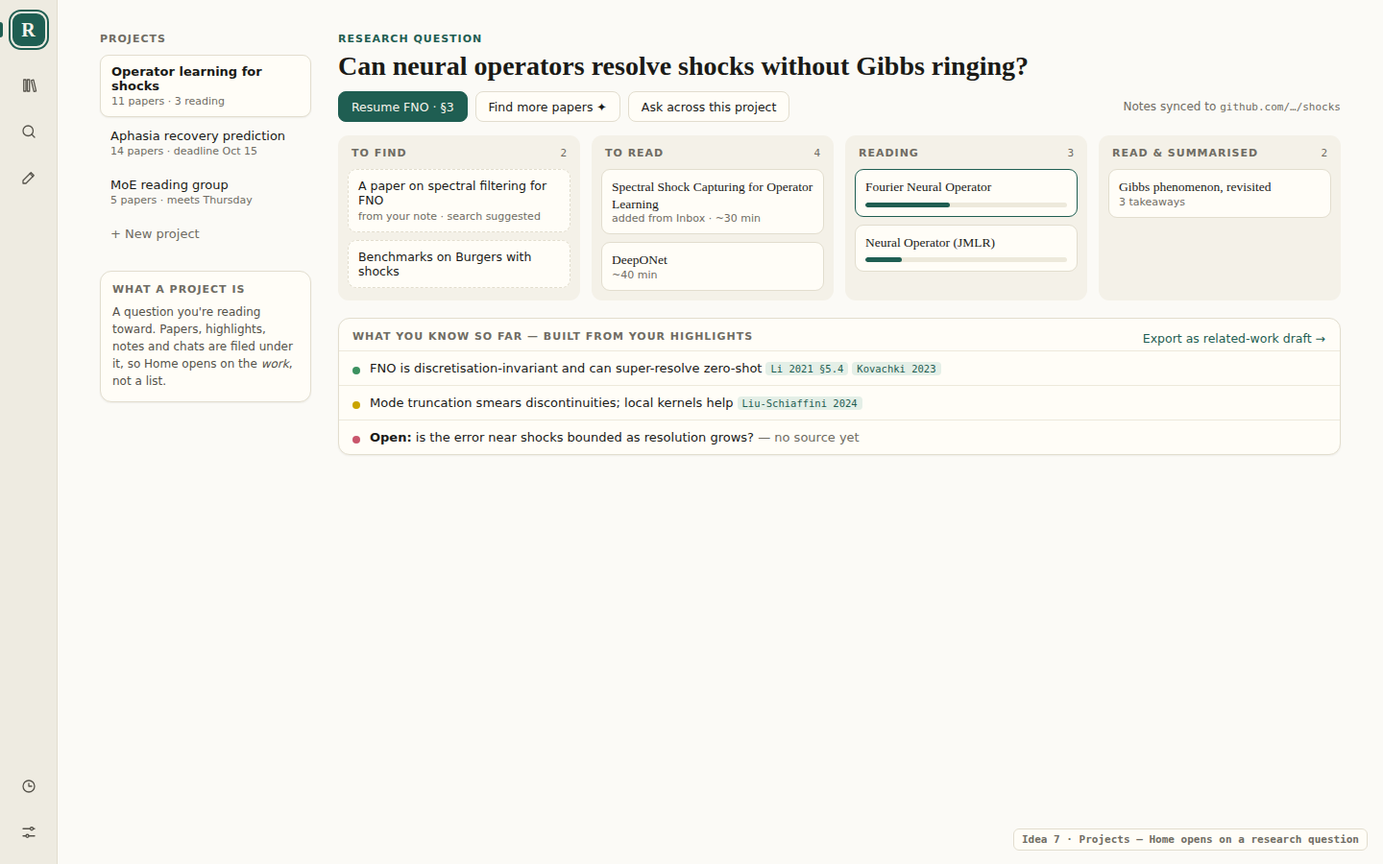
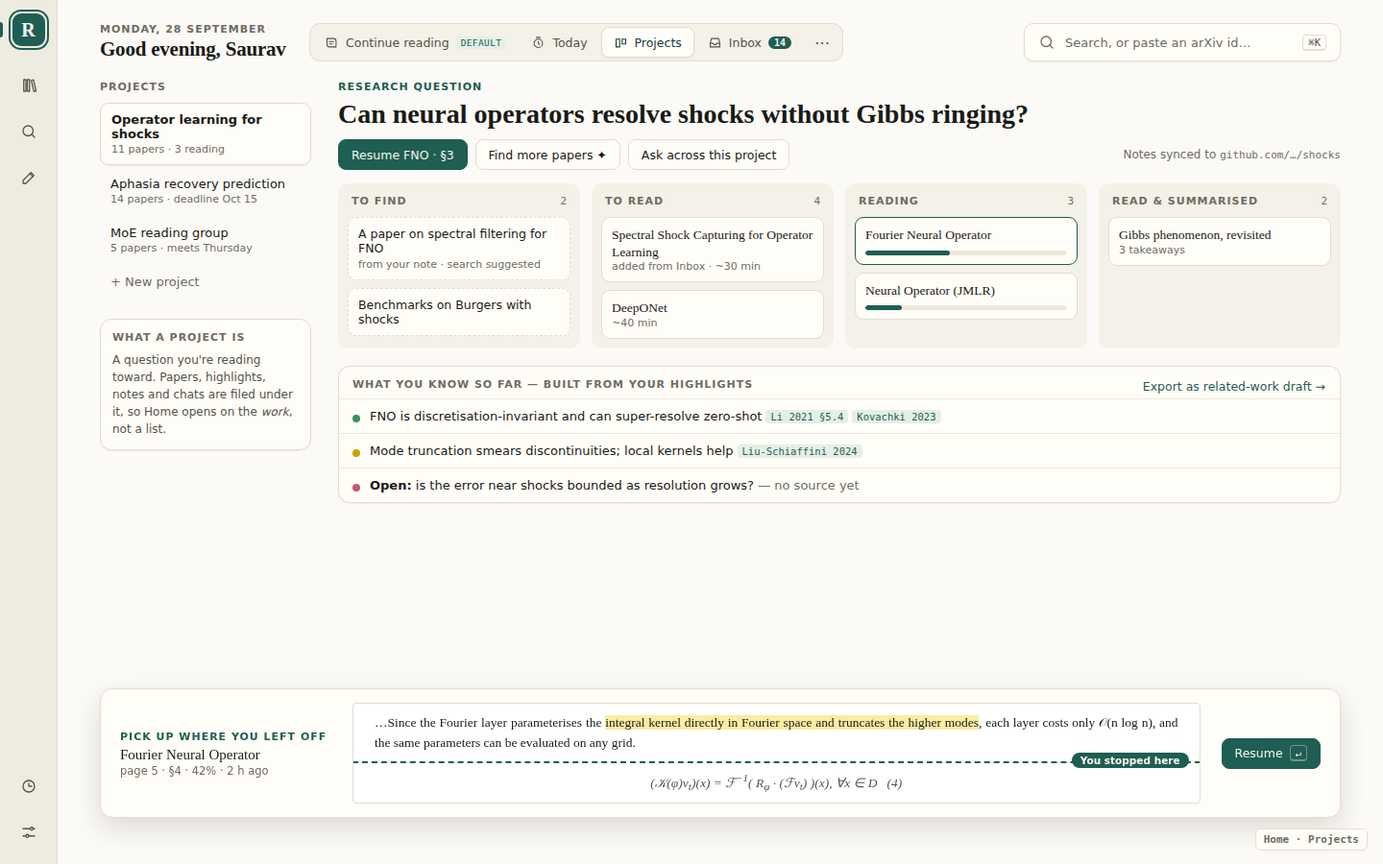
Landing ideas: Continue reading is Home's default, with Today, Projects and Inbox as tabs
Home gets a view switcher and a menu to choose the default and the tabs.
The continue-reading page preview now shows most of the page, and the
other views carry a resume strip with the lines where reading stopped.

Claude-Session: https://claude.ai/code/session_01GpdQYx1fE5DJU2tELgjumX

diff --git a/docs/mockups/landing-src/1-continue.html b/docs/mockups/landing-src/1-continue.html
@@ -1,95 +1,98 @@
 <!doctype html><html><head><meta charset="utf-8"><link rel="stylesheet" href="shared.css">
 <style>
-.grid{display:grid;grid-template-columns:1.4fr 1fr 1fr;gap:20px;margin-top:22px}
-.hero{padding:0;display:grid;grid-template-columns:380px 1fr;overflow:hidden;grid-column:1/-1}
-.meta{padding:22px 24px;display:flex;flex-direction:column}
-.peek{position:relative;background:var(--panel);border-left:1px solid var(--border);padding:16px 18px 0;height:392px;overflow:hidden}
-.peek .bar-top{display:flex;align-items:center;gap:8px;margin-bottom:10px}
-.page{background:#fff;color:#1a1a17;border:1px solid var(--border);border-radius:3px 3px 0 0;box-shadow:0 2px 10px rgba(26,26,23,.10);padding:22px 60px;font-family:'Times New Roman',Times,var(--serif);font-size:15px;line-height:1.55;height:100%;position:relative;max-width:760px;margin:0 auto}
-.page h4{font:700 16px 'Times New Roman',Times,serif;margin:0 0 6px}
-.page p{margin:0 0 8px;text-align:justify;hyphens:auto}
-.page .eq{text-align:center;font-style:italic;margin:6px 0 8px}
-.page .fig{height:54px;border:1px solid #ddd;border-radius:2px;display:flex;gap:6px;padding:6px;margin:4px 0 8px}
-.page .fig i{flex:1;border-radius:2px;background:linear-gradient(135deg,#dbe8f3,#f3dfe4 45%,#e9f1dc)}
-.page .past{opacity:.55}
+.grid{display:grid;grid-template-columns:1fr 340px;gap:20px;height:calc(100% - 64px)}
+.hero{display:flex;flex-direction:column;overflow:hidden;padding:0}
+.meta{display:flex;align-items:center;gap:22px;padding:16px 22px;border-bottom:1px solid var(--border-soft)}
+.meta .t{flex:1;min-width:0}
+.meta .ptitle{font-size:20px;white-space:nowrap;overflow:hidden;text-overflow:ellipsis}
+.facts{display:flex;gap:14px;white-space:nowrap;margin-top:6px;font-size:12px;color:var(--ink-2);align-items:center}
+.facts .bar{width:150px}
+.peek{position:relative;flex:1;background:var(--panel);overflow:hidden;padding:0 22px}
+.peekbar{position:absolute;top:0;left:0;right:0;z-index:3;display:flex;align-items:center;gap:8px;padding:10px 22px;background:linear-gradient(var(--panel) 60%,transparent)}
+.page{background:#fff;color:#1a1a17;box-shadow:0 2px 14px rgba(26,26,23,.12);max-width:660px;margin:0 auto 0 12px;padding:30px 56px 40px;font-family:'Times New Roman',Times,var(--serif);font-size:14.5px;line-height:1.5;position:relative}
+.page.prev{margin-top:-120px;padding-bottom:20px}
+.pghead{font-size:11px;color:#666;text-align:center;margin-bottom:18px;font-style:italic}
+.pgnum{text-align:center;font-size:12px;color:#444;margin-top:14px}
+.gap{height:14px}
+.page h4{font:700 15.5px 'Times New Roman',Times,serif;margin:14px 0 6px}
+.page p{margin:0 0 9px;text-align:justify;hyphens:auto}
+.page .eq{text-align:center;font-style:italic;margin:10px 0}
+.page .read{color:#8a877e}
+.fig{display:grid;grid-template-columns:repeat(3,1fr);gap:8px;margin:12px 0 6px}
+.fig div{height:92px;border:1px solid #ddd;border-radius:2px;background:radial-gradient(circle at 30% 40%,#f3c9c2,transparent 45%),radial-gradient(circle at 70% 65%,#bcd3ea,transparent 50%),linear-gradient(135deg,#eef3f8,#f8efe9)}
+.fig div:nth-child(2){filter:hue-rotate(40deg)}.fig div:nth-child(3){filter:hue-rotate(-60deg) saturate(.8)}
+.cap{font-size:12.5px;text-align:center;margin-bottom:10px}
 .hlp{background:#faeda2}
-.stop{position:relative;margin:10px -61px 12px;height:0;border-top:2px dashed var(--accent)}
-.stop span{position:absolute;right:10px;top:-11px;background:var(--accent);color:var(--accent-on);font:600 10.5px var(--sans);padding:2px 8px;border-radius:999px;letter-spacing:.02em}
-.stop::before{content:'';position:absolute;left:-1px;top:-6px;width:10px;height:10px;border-radius:50%;background:var(--accent)}
-.pin{position:absolute;right:-30px;width:18px;height:18px;border-radius:5px;background:#f6d8dc;border:1px solid #c9566c;display:grid;place-items:center;font:600 10px var(--sans);color:#8f2f2f}
-.fade{position:absolute;left:0;right:0;bottom:0;height:80px;background:linear-gradient(transparent,var(--panel))}
-.fadetop{position:absolute;left:0;right:0;top:44px;height:30px;background:linear-gradient(var(--panel),transparent);z-index:1}
-.peek .open{position:absolute;right:18px;bottom:14px;z-index:2}
-:root[data-theme=dark] .page{background:#23252b;color:#dcd8ce;border-color:var(--border)}
+.stop{position:relative;margin:12px -57px 14px;height:0;border-top:2px dashed var(--accent);z-index:2}
+.stop span{position:absolute;right:14px;top:-12px;background:var(--accent);color:var(--accent-on);font:600 11px var(--sans);padding:3px 10px;border-radius:999px}
+.stop::before{content:'';position:absolute;left:-2px;top:-7px;width:12px;height:12px;border-radius:50%;background:var(--accent)}
+.margin-note{text-align:left;position:absolute;right:-232px;width:205px;background:var(--surface);border:1px solid var(--border);border-left:3px solid var(--ul-pink);border-radius:8px;padding:9px 11px;font:12px/1.45 var(--sans);color:var(--ink);box-shadow:var(--shadow-sm)}
+.margin-note small{display:block;color:var(--muted);font-size:10.5px;margin-bottom:3px}
+.fade{position:absolute;left:0;right:0;bottom:0;height:110px;background:linear-gradient(transparent,var(--panel) 85%);z-index:2}
+.peek .open{position:absolute;right:22px;bottom:16px;z-index:3;display:flex;gap:8px}
+.side{display:flex;flex-direction:column;gap:16px;min-height:0}
+.row{display:flex;align-items:center;gap:11px;padding:9px 14px;border-top:1px solid var(--border-soft)}
+.row .ptitle{font-size:13.5px}
+.sh{display:flex;justify-content:space-between;padding:12px 14px 6px}
+.hlitem{padding:9px 14px;border-top:1px solid var(--border-soft);font-family:var(--serif);font-size:13.5px;line-height:1.4}
+.hlitem small{display:block;font-family:var(--sans);font-size:11px;color:var(--muted);margin-top:3px}
+:root[data-theme=dark] .page{background:#23252b;color:#dcd8ce}
+:root[data-theme=dark] .page .read,:root[data-theme=dark] .pghead,:root[data-theme=dark] .pgnum{color:#8d897f}
 :root[data-theme=dark] .hlp{background:rgba(246,226,122,.3)}
-:root[data-theme=dark] .page .fig{border-color:#3a3d45}
-:root[data-theme=dark] .page .fig i{opacity:.35}
-.note{margin:14px 0 16px;padding:9px 12px;border-radius:8px;background:var(--hl-pink);font-size:12px;line-height:1.45}
-.snip{border-left:3px solid var(--ul-yellow);padding:8px 12px;margin:14px 0 16px;font-family:var(--serif);font-size:15px;line-height:1.5;background:var(--panel);border-radius:0 8px 8px 0}
-.row{display:flex;align-items:center;gap:12px;padding:11px 14px;border-top:1px solid var(--border-soft)}
-.row:first-child{border-top:0}
-.qbox{display:flex;align-items:center;gap:10px;height:44px;padding:0 14px;border:1px solid var(--border);border-radius:11px;background:var(--surface);box-shadow:var(--shadow-sm);color:var(--muted);font-size:14px;width:520px}
-.stat b{font-family:var(--serif);font-size:26px;font-weight:600;display:block;color:var(--ink)}
-.hlitem{padding:11px 14px;border-top:1px solid var(--border-soft);font-family:var(--serif);font-size:14px;line-height:1.45}
-.hlitem:first-of-type{border-top:0}
-.hlitem small{display:block;font-family:var(--sans);font-size:11px;color:var(--muted);margin-top:4px}
+:root[data-theme=dark] .fig div{border-color:#3a3d45;opacity:.45}
 </style></head><body><div class="app"><!--RAIL-->
 <main class="main"><div class="scroll">
-<div style="display:flex;align-items:flex-end;justify-content:space-between">
-  <div><div class="eyebrow">Sunday, 27 September</div>
-  <h1 class="serif" style="font-size:34px;font-weight:600;letter-spacing:-.014em;margin-top:6px">Good evening, Saurav</h1></div>
-  <div class="qbox"><svg class="i" viewBox="0 0 24 24"><circle cx="11" cy="11" r="7"/><path d="M20 20l-4-4"/></svg>Search papers, people, or paste an arXiv id…<span style="flex:1"></span><kbd>⌘K</kbd></div>
-</div>
-
+<!--HOMEBAR:continue-->
 <div class="grid">
-  <section class="card hero">
-   <div class="meta">
-    <div class="eyebrow" style="color:var(--accent)">Continue reading · 2 hours ago</div>
-    <div class="ptitle" style="font-size:22px;margin-top:6px">Fourier Neural Operator for Parametric Partial Differential Equations</div>
-    <div class="ink2" style="margin-top:4px">Zongyi Li, Nikola Kovachki et al. · ICLR 2021</div>
-    <div style="display:flex;align-items:center;gap:10px;margin-top:14px"><div class="bar" style="flex:1"><i style="width:42%"></i></div><span class="mono muted">42% · ~14 min left</span></div>
-    <div class="note"><b>Your note</b> on the last highlight: “Where does this kernel parameterisation come from?”</div>
-    <div style="display:grid;grid-template-columns:auto 1fr;gap:6px 12px;font-size:12px;margin-bottom:16px">
-     <span class="muted">Last session</span><span>18 min · 3 highlights · 1 note</span>
-     <span class="muted">Coming up</span><span>§4.1 Discretisation invariance · Fig. 2</span>
-    </div>
-    <div style="flex:1"></div>
-    <div style="display:flex;gap:8px;flex-wrap:wrap"><span class="btn primary">Resume here <kbd style="background:transparent;color:var(--accent-on);border-color:rgba(255,255,255,.35)">↵</kbd></span><span class="btn">Explain the paper</span></div>
+ <section class="card hero">
+  <div class="meta">
+   <div class="t">
+    <div class="eyebrow" style="color:var(--accent)">Continue reading · left 2 hours ago</div>
+    <div class="ptitle" style="margin-top:4px">Fourier Neural Operator for Parametric Partial Differential Equations</div>
+    <div class="facts"><span>Li, Kovachki et al. · ICLR 2021</span><div class="bar" style="width:110px"><i style="width:42%"></i></div><span class="mono">42% · ~14 min left</span><span class="muted">last session 18 min · 3 highlights</span></div>
    </div>
-   <div class="peek">
-    <div class="bar-top"><span class="eyebrow">Where you stopped</span><span class="mono muted">page 5 of 16 · §4</span><span style="flex:1"></span><span class="chip" style="height:22px;background:var(--surface);color:var(--accent-ink);border-color:var(--accent)">PDF</span><span class="chip" style="height:22px">Reflow</span></div>
-    <div class="fadetop"></div>
-    <div class="page">
-     <p class="past">…where each update composes a non-local integral operator with a local, nonlinear activation function. Finally, the output u is the projection of v<sub>T</sub> by Q.</p>
-     <h4>4 &nbsp;Fourier Neural Operator</h4>
-     <p>We propose replacing the kernel integral operator in (3) by a convolution operator defined in Fourier space. Let ℱ denote the Fourier transform of a function f : D → ℝ<sup>d<sub>v</sub></sup>. Since the Fourier layer parameterises the <span class="hlp">integral kernel directly in Fourier space and truncates the higher modes</span>, each layer costs only 𝒪(n log n).<span class="pin" style="top:168px" title="your note">✎</span></p>
-     <div class="stop"><span>You stopped here · 2 h ago</span></div>
-     
-     
-     <div class="eq" style="margin-top:14px">(𝒦(φ)v<sub>t</sub>)(x) = ℱ<sup>−1</sup>( R<sub>φ</sub> · (ℱv<sub>t</sub>) )(x), &nbsp; ∀x ∈ D &nbsp;&nbsp;&nbsp;(4)</div>
-     <p>where R<sub>φ</sub> is the Fourier transform of a periodic function κ : D̄ → ℝ<sup>d<sub>v</sub>×d<sub>v</sub></sup> parameterised by φ ∈ Θ<sub>𝒦</sub>…</p>
-     <div class="fig"><i></i><i></i><i></i></div>
-    </div>
-    <div class="fade"></div>
-    <span class="btn open" style="background:var(--surface)">Open at this line →</span>
+   <span class="btn primary" style="height:38px;padding:0 16px">Resume here <kbd style="background:transparent;color:var(--accent-on);border-color:rgba(255,255,255,.35)">↵</kbd></span>
+  </div>
+  <div class="peek">
+   <div class="peekbar"><span class="eyebrow">Where you stopped</span><span class="mono muted">page 5 of 16 · §4 Fourier Neural Operator</span><span style="flex:1"></span><span class="chip" style="height:22px;background:var(--surface);color:var(--accent-ink);border-color:var(--accent)">PDF</span><span class="chip" style="height:22px">Reflow</span></div>
+   <div class="page prev"><p class="read">…of the solution operator, and we then show that the resulting architecture approximates any continuous operator to arbitrary accuracy.</p><div class="pgnum">4</div></div>
+   <div class="gap"></div>
+   <div class="page">
+    <div class="pghead">Published as a conference paper at ICLR 2021</div>
+    <p class="read">We then apply several iterations of updates v<sub>t</sub> ↦ v<sub>t+1</sub>, where each update composes a non-local integral operator 𝒦 with a local, nonlinear activation function σ. Finally, the output u is the projection of v<sub>T</sub> by the local transformation Q.</p>
+    <h4>4 &nbsp;Fourier Neural Operator</h4>
+    <p class="read">We propose replacing the kernel integral operator in (3) by a convolution operator defined in Fourier space. Let ℱ denote the Fourier transform of a function f : D → ℝ<sup>d<sub>v</sub></sup> and ℱ<sup>−1</sup> its inverse.</p>
+    <p>Since the Fourier layer parameterises the <span class="hlp">integral kernel directly in Fourier space and truncates the higher modes</span>, each layer costs only 𝒪(n log n), and the same parameters can be evaluated on any grid.
+     <span class="margin-note" style="top:238px"><small>Your note · 2 h ago</small>Where does this kernel parameterisation come from?</span></p>
+    <div class="stop"><span>You stopped here</span></div>
+    <div class="eq">(𝒦(φ)v<sub>t</sub>)(x) = ℱ<sup>−1</sup>( R<sub>φ</sub> · (ℱv<sub>t</sub>) )(x), &nbsp;&nbsp; ∀x ∈ D &nbsp;&nbsp;&nbsp;&nbsp;(4)</div>
+    <p>where R<sub>φ</sub> is the Fourier transform of a periodic function κ : D̄ → ℝ<sup>d<sub>v</sub>×d<sub>v</sub></sup> parameterised by φ ∈ Θ<sub>𝒦</sub>. For frequency mode k ∈ D, we have (ℱv<sub>t</sub>)(k) ∈ ℂ<sup>d<sub>v</sub></sup> and R<sub>φ</sub>(k) ∈ ℂ<sup>d<sub>v</sub>×d<sub>v</sub></sup>.</p>
+    <div class="fig"><div></div><div></div><div></div></div>
+    <div class="cap">Figure 2: The full architecture of the neural operator and a Fourier layer.</div>
+    <p>The discretisation D<sub>j</sub> of the domain D gives n points; in the Fourier domain we keep at most k<sub>max</sub> modes…</p>
    </div>
+   <div class="fade"></div>
+   <div class="open"><span class="btn" style="background:var(--surface)">Explain the paper</span><span class="btn" style="background:var(--surface)">Open at this line →</span></div>
+  </div>
+ </section>
+ <aside class="side">
+  <section class="card">
+   <div class="sh"><span class="eyebrow">Also in progress</span><span class="btn ghost" style="height:auto;padding:0;font-size:11.5px">All (4) →</span></div>
+   <div class="row"><div class="ring" style="--p:.63;width:28px;height:28px"></div><div style="flex:1"><div class="ptitle">Survey of mixture-of-experts</div><div class="muted" style="font-size:11px">63% · 2 days ago</div></div></div>
+   <div class="row"><div class="ring" style="--p:.18;width:28px;height:28px"></div><div style="flex:1"><div class="ptitle">Neural Operator: Learning Maps Between Function Spaces</div><div class="muted" style="font-size:11px">18% · 4 days ago</div></div></div>
+   <div class="row"><div class="ring" style="--p:.08;width:28px;height:28px"></div><div style="flex:1"><div class="ptitle">Post-stroke aphasia severity from multimodal neuroimaging</div><div class="muted" style="font-size:11px">8% · <span style="color:var(--ul-pink)">stalled 6 days</span></div></div></div>
   </section>
   <section class="card">
-   <div style="display:flex;justify-content:space-between;padding:14px 14px 6px"><span class="eyebrow">Also in progress</span><span class="btn ghost" style="height:auto;padding:0">Reading now (4) →</span></div>
-   <div class="row"><div class="ring" style="--p:.63"></div><div style="flex:1"><div class="ptitle">A comprehensive survey of mixture-of-experts: Algorithms, theory, and applications</div><div class="muted" style="font-size:11.5px">S Mu, S Lin · 2025 · 63% · opened 2 days ago</div></div><span class="chip">5 highlights</span></div>
-   <div class="row"><div class="ring" style="--p:.18"></div><div style="flex:1"><div class="ptitle">Neural Operator: Learning Maps Between Function Spaces</div><div class="muted" style="font-size:11.5px">Kovachki et al. · JMLR 2023 · 18% · opened 4 days ago</div></div><span class="chip">1 note</span></div>
-   <div class="row"><div class="ring" style="--p:.08"></div><div style="flex:1"><div class="ptitle">Fusion approaches to predict post-stroke aphasia severity from multimodal neuroimaging data</div><div class="muted" style="font-size:11.5px">S Chennuri et al. · ICCV 2023 · 8% · opened last week</div></div><span class="chip">Stalled 6 days</span></div>
-  </section>
-  <section class="card">
-   <div style="padding:14px 14px 6px"><span class="eyebrow">Recent highlights</span></div>
+   <div class="sh"><span class="eyebrow">Recent highlights</span></div>
    <div class="hlitem"><span class="hl-g">spectral convolution is resolution-invariant</span><small><span class="dot dg"></span> Fourier Neural Operator · §4</small></div>
-   <div class="hlitem"><span class="hl-b">sparse gating selects the top-k experts per token</span><small><span class="dot db"></span> Survey of mixture-of-experts · §2.1</small></div>
-   <div class="hlitem"><span class="hl-p">Does truncation lose shock fronts?</span><small><span class="dot dp"></span> Fourier Neural Operator · note · open question</small></div>
+   <div class="hlitem"><span class="hl-b">sparse gating selects the top-k experts per token</span><small><span class="dot db"></span> Mixture-of-experts · §2.1</small></div>
+   <div class="hlitem"><span class="hl-p">Does truncation lose shock fronts?</span><small><span class="dot dp"></span> open question</small></div>
   </section>
   <section class="card">
-   <div style="padding:14px 14px 6px"><span class="eyebrow">Up next in your queue</span></div>
-   <div class="row"><div class="cover" style="width:30px;height:40px"><i></i><i></i><i></i></div><div style="flex:1"><div class="ptitle" style="font-size:14px">Physics-informed neural networks</div><div class="muted" style="font-size:11.5px">Raissi et al. · added yesterday · ~35 min</div></div></div>
-   <div class="row"><div class="cover" style="width:30px;height:40px"><i></i><i></i><i></i></div><div style="flex:1"><div class="ptitle" style="font-size:14px">DeepONet: Learning nonlinear operators</div><div class="muted" style="font-size:11.5px">Lu et al. · added 3 days ago · ~40 min</div></div></div>
+   <div class="sh"><span class="eyebrow">Up next</span></div>
+   <div class="row"><div class="cover" style="width:26px;height:34px;padding:4px"><i></i><i></i></div><div style="flex:1"><div class="ptitle">Physics-informed neural networks</div><div class="muted" style="font-size:11px">~35 min · added yesterday</div></div></div>
+   <div class="row"><div class="cover" style="width:26px;height:34px;padding:4px"><i></i><i></i></div><div style="flex:1"><div class="ptitle">DeepONet</div><div class="muted" style="font-size:11px">~40 min · added 3 days ago</div></div></div>
   </section>
+ </aside>
 </div>
-</div></main></div><div class="label">Idea 1 · Pick up where you left off</div></body></html>
+</div></main></div><div class="label">Home · Continue reading (default)</div></body></html>

diff --git a/docs/mockups/landing-src/1c-choose-views.html b/docs/mockups/landing-src/1c-choose-views.html
@@ -1,4 +1,4 @@
-<!doctype html><html data-theme="dark"><head><meta charset="utf-8"><link rel="stylesheet" href="shared.css">
+<!doctype html><html><head><meta charset="utf-8"><link rel="stylesheet" href="shared.css">
 <style>
 .grid{display:grid;grid-template-columns:1fr 340px;gap:20px;height:calc(100% - 64px)}
 .hero{display:flex;flex-direction:column;overflow:hidden;padding:0}
@@ -40,9 +40,19 @@
 :root[data-theme=dark] .page .read,:root[data-theme=dark] .pghead,:root[data-theme=dark] .pgnum{color:#8d897f}
 :root[data-theme=dark] .hlp{background:rgba(246,226,122,.3)}
 :root[data-theme=dark] .fig div{border-color:#3a3d45;opacity:.45}
+.viewmenu{position:fixed;left:676px;top:66px;width:330px;background:var(--surface);border:1px solid var(--border);border-radius:13px;box-shadow:var(--shadow-md);z-index:10}
+.viewmenu .opt{display:flex;gap:11px;padding:8px 16px;align-items:flex-start}
+.viewmenu .opt.on{background:var(--accent-soft)}
+.viewmenu .opt b{font-weight:500;font-size:13px}
+.viewmenu .opt small{display:block;color:var(--muted);font-size:11.5px;margin-top:1px}
+.radio{width:15px;height:15px;border-radius:50%;border:1.5px solid var(--border);margin-top:2px;flex-shrink:0;display:grid;place-items:center}
+.radio.on{border-color:var(--accent)}.radio.on::after{content:'';width:7px;height:7px;border-radius:50%;background:var(--accent)}
+.tick{display:inline-block;width:13px;height:13px;border:1.5px solid var(--border);border-radius:3px;margin-right:7px;vertical-align:-2px}
+.tick.on{background:var(--accent);border-color:var(--accent)}
+.dim{position:fixed;inset:0;background:rgba(26,26,23,.06);z-index:9}
 </style></head><body><div class="app"><!--RAIL-->
 <main class="main"><div class="scroll">
-<!--HOMEBAR:continue-->
+<!--HOMEBAR:more-->
 <div class="grid">
  <section class="card hero">
   <div class="meta">
@@ -95,4 +105,18 @@
   </section>
  </aside>
 </div>
-</div></main></div><div class="label">Home · Continue reading (default) · dark</div></body></html>
+</div></main></div><div class="dim"></div><div class="viewmenu">
+ <div class="eyebrow" style="padding:14px 16px 6px">Home opens on</div>
+ <label class="opt on"><span class="radio on"></span><div><b>Continue reading</b><small>The page you stopped on, and what's in progress</small></div></label>
+ <label class="opt"><span class="radio"></span><div><b>Today</b><small>A timed plan and a focus session</small></div></label>
+ <label class="opt"><span class="radio"></span><div><b>Projects</b><small>Your active research question</small></div></label>
+ <label class="opt"><span class="radio"></span><div><b>Inbox</b><small>New papers since your last visit</small></div></label>
+ <label class="opt"><span class="radio"></span><div><b>Whichever I used last</b></div></label>
+ <div class="eyebrow" style="padding:12px 16px 6px;border-top:1px solid var(--border-soft);margin-top:6px">Show as tabs</div>
+ <div style="padding:2px 16px 10px;display:grid;grid-template-columns:1fr 1fr;gap:7px 10px;font-size:12.5px">
+  <span><span class="tick on"></span>Continue reading</span><span><span class="tick on"></span>Today</span>
+  <span><span class="tick on"></span>Projects</span><span><span class="tick on"></span>Inbox</span>
+  <span class="muted"><span class="tick"></span>Search-first</span><span class="muted"><span class="tick"></span>Review</span>
+ </div>
+ <div style="padding:10px 16px;border-top:1px solid var(--border-soft);display:flex;gap:10px;font-size:11.5px" class="muted"><span><kbd>1</kbd>–<kbd>4</kbd> switch views on Home</span><span style="margin-left:auto">Also in Settings</span></div>
+</div><div class="label">Home · ⋯ choose views and the default</div></body></html>

diff --git a/docs/mockups/landing-src/shared.css b/docs/mockups/landing-src/shared.css
@@ -40,3 +40,25 @@ kbd{font-family:var(--mono);font-size:10.5px;padding:1px 5px;border:1px solid va
 .brand.away{box-shadow:none}
 .brand.home::after{content:'';position:absolute;left:-13px;top:9px;width:3px;height:16px;border-radius:0 3px 3px 0;background:var(--accent)}
 .brand.away::after{display:none}
+/* Home's own bar: greeting, the view switcher, search. */
+.homebar{display:flex;align-items:center;gap:18px;margin:-10px 0 20px}
+.homebar .hello{display:flex;flex-direction:column;gap:2px;min-width:200px}
+.homebar .hello .serif{font-size:21px;font-weight:600;letter-spacing:-.01em}
+.seg{display:flex;gap:2px;padding:3px;background:var(--panel);border:1px solid var(--border);border-radius:11px}
+.seg .tab{display:inline-flex;align-items:center;gap:7px;height:32px;padding:0 12px;border-radius:8px;font-weight:500;font-size:12.5px;color:var(--ink-2);white-space:nowrap}
+.seg .tab svg.i{width:15px;height:15px}
+.seg .tab.on{background:var(--surface);color:var(--accent-ink);box-shadow:var(--shadow-sm);border:1px solid var(--border)}
+.seg .tab em{font-style:normal;font:500 9.5px var(--mono);color:var(--accent);background:var(--accent-soft);padding:1px 5px;border-radius:4px;text-transform:uppercase;letter-spacing:.04em}
+.seg .tab b{font:600 10px var(--mono);background:var(--accent);color:var(--accent-on);border-radius:999px;padding:1px 6px}
+.seg .tab.more{padding:0 10px;font-size:16px}
+.seg .tab.more.on{color:var(--accent)}
+.homebar .qbox{margin-left:auto;display:flex;align-items:center;gap:10px;height:40px;padding:0 14px;border:1px solid var(--border);border-radius:10px;background:var(--surface);box-shadow:var(--shadow-sm);color:var(--muted);font-size:13px;width:330px}
+/* On Home's other views: the paper you left, a few lines of it, one key away. */
+.resume{position:fixed;left:104px;right:44px;bottom:48px;display:flex;align-items:center;gap:22px;padding:14px 20px;background:var(--surface);border:1px solid var(--border);border-radius:13px;box-shadow:var(--shadow-md)}
+.rs-meta{width:220px;flex-shrink:0}
+.rs-page{flex:1;position:relative;background:#fff;color:#1a1a17;border:1px solid var(--border);border-radius:4px;padding:10px 22px 8px;font:13.5px/1.5 'Times New Roman',Times,serif;overflow:hidden;max-height:118px}
+.rs-page p{margin:0;text-align:justify}
+.rs-page .rs-next{text-align:center;font-style:italic;color:#555;margin-top:2px}
+.rs-stop{position:relative;margin:9px -23px 7px;border-top:2px dashed var(--accent)}
+.rs-stop span{position:absolute;right:12px;top:-11px;background:var(--accent);color:var(--accent-on);font:600 10.5px var(--sans);padding:2px 9px;border-radius:999px}
+:root[data-theme=dark] .rs-page{background:#23252b;color:#dcd8ce}

diff --git a/docs/mockups/landing-src/8-today.html b/docs/mockups/landing-src/8-today.html
@@ -1,6 +1,6 @@
 <!doctype html><html><head><meta charset="utf-8"><link rel="stylesheet" href="shared.css">
 <style>
-.cols{display:grid;grid-template-columns:1fr 360px;gap:26px;margin-top:22px}
+.cols{display:grid;grid-template-columns:1fr 360px;gap:26px;margin-top:18px}
 .blk{display:flex;gap:14px;padding:14px 16px;border-top:1px solid var(--border-soft);align-items:center}
 .blk:first-of-type{border-top:0}
 .time{width:62px;font-family:var(--mono);font-size:11.5px;color:var(--muted)}
@@ -13,8 +13,9 @@
 .box.on{background:var(--accent);border-color:var(--accent)}
 </style></head><body><div class="app"><!--RAIL-->
 <main class="main"><div class="scroll">
+<!--HOMEBAR:today-->
 <div style="display:flex;align-items:flex-end;justify-content:space-between">
- <div><div class="eyebrow">Today · 90 minutes planned</div><h1 class="serif" style="font-size:32px;font-weight:600;margin-top:6px">Your reading plan</h1>
+ <div><h1 class="serif" style="font-size:28px;font-weight:600">Your reading plan · 90 minutes</h1>
  <p class="ink2" style="margin:6px 0 0;font-size:14px">Built from your queue, deadlines and what stalled. Drag to reorder; it's a suggestion, not a rule.</p></div>
  <div style="display:flex;gap:8px"><span class="btn">30 min</span><span class="btn" style="border-color:var(--accent);color:var(--accent)">90 min</span><span class="btn">Half day</span></div>
 </div>
@@ -42,4 +43,4 @@
   </section>
  </aside>
 </div>
-</div></main></div><div class="label">Idea 8 · Today's plan &amp; focus session</div></body></html>
+</div></main></div><!--RESUME--><div class="label">Home · Today</div></body></html>

diff --git a/docs/mockups/landing-src/homebar.html b/docs/mockups/landing-src/homebar.html
@@ -1,0 +1,11 @@
+<div class="homebar">
+ <div class="hello"><span class="eyebrow">Monday, 28 September</span><span class="serif">Good evening, Saurav</span></div>
+ <nav class="seg" aria-label="Home view">
+  <span class="tab" data-k="continue"><svg class="i" viewBox="0 0 24 24"><path d="M4 5h11a4 4 0 0 1 4 4v10H8a4 4 0 0 1-4-4z"/><path d="M8 10h7M8 14h5"/></svg>Continue reading<em>default</em></span>
+  <span class="tab" data-k="today"><svg class="i" viewBox="0 0 24 24"><circle cx="12" cy="13" r="7"/><path d="M12 10v3l2 2M9 3h6"/></svg>Today</span>
+  <span class="tab" data-k="projects"><svg class="i" viewBox="0 0 24 24"><path d="M4 6h6v13H4zM14 6h6v8h-6z"/></svg>Projects</span>
+  <span class="tab" data-k="inbox"><svg class="i" viewBox="0 0 24 24"><path d="M4 13l2-8h12l2 8v6H4z"/><path d="M4 13h5l1 2h4l1-2h5"/></svg>Inbox<b>14</b></span>
+  <span class="tab more" data-k="more" title="Choose views">⋯</span>
+ </nav>
+ <div class="qbox"><svg class="i" viewBox="0 0 24 24"><circle cx="11" cy="11" r="7"/><path d="M20 20l-4-4"/></svg>Search, or paste an arXiv id…<span style="flex:1"></span><kbd>⌘K</kbd></div>
+</div>

diff --git a/docs/mockups/landing-src/resume.html b/docs/mockups/landing-src/resume.html
@@ -1,0 +1,9 @@
+<div class="resume">
+ <div class="rs-meta"><span class="eyebrow" style="color:var(--accent)">Pick up where you left off</span><div class="ptitle" style="font-size:15px;margin-top:3px">Fourier Neural Operator</div><div class="muted" style="font-size:11.5px">page 5 · §4 · 42% · 2 h ago</div></div>
+ <div class="rs-page">
+  <p>…Since the Fourier layer parameterises the <span style="background:#faeda2">integral kernel directly in Fourier space and truncates the higher modes</span>, each layer costs only 𝒪(n log n), and the same parameters can be evaluated on any grid.</p>
+  <div class="rs-stop"><span>You stopped here</span></div>
+  <p class="rs-next">(𝒦(φ)v<sub>t</sub>)(x) = ℱ<sup>−1</sup>( R<sub>φ</sub> · (ℱv<sub>t</sub>) )(x), ∀x ∈ D &nbsp; (4)</p>
+ </div>
+ <span class="btn primary">Resume <kbd style="background:transparent;color:var(--accent-on);border-color:rgba(255,255,255,.35)">↵</kbd></span>
+</div>

diff --git a/docs/mockups/landing-src/7-projects.html b/docs/mockups/landing-src/7-projects.html
@@ -15,6 +15,7 @@
 .cite{font-family:var(--mono);font-size:10.5px;color:var(--accent);background:var(--accent-soft);padding:1px 5px;border-radius:4px;margin-left:4px}
 </style></head><body><div class="app"><!--RAIL-->
 <main class="main"><div class="scroll">
+<!--HOMEBAR:projects-->
 <div class="wrap">
  <aside>
   <div class="eyebrow">Projects</div>
@@ -51,4 +52,4 @@
   </div>
  </section>
 </div>
-</div></main></div><div class="label">Idea 7 · Projects — Home opens on a research question</div></body></html>
+</div></main></div><!--RESUME--><div class="label">Home · Projects</div></body></html>

diff --git a/docs/mockups/landing-src/3-inbox.html b/docs/mockups/landing-src/3-inbox.html
@@ -14,6 +14,7 @@
 .tri .btn{justify-content:space-between;height:28px}
 </style></head><body><div class="app"><!--RAIL-->
 <main class="main"><div class="scroll">
+<!--HOMEBAR:inbox-->
 <div class="wrap">
  <aside>
   <div class="eyebrow">Since you were last here</div>
@@ -76,4 +77,4 @@
   </div>
  </section>
 </div>
-</div></main></div><div class="label">Idea 3 · “Since you were last here” inbox</div></body></html>
+</div></main></div><!--RESUME--><div class="label">Home · Inbox</div></body></html>

diff --git a/docs/landing-ideas.md b/docs/landing-ideas.md
@@ -16,24 +16,54 @@ and are re-rendered with `node docs/mockups/landing-src/render.mjs`.
 
 ---
 
+## Home: one default view, three more a click away
+
+**Home opens on _Continue reading_**, the view that shows the page you
+stopped on. A switcher at the top of Home holds the three other views that
+are most worth having:
+
+| Tab | What it's for | Key |
+|---|---|---|
+| **Continue reading** (default) | The page you left, what's in progress, recent highlights, up next | <kbd>1</kbd> |
+| **Today** | A timed reading plan and a focus session (idea 8) | <kbd>2</kbd> |
+| **Projects** | Your active research question and its papers (idea 7) | <kbd>3</kbd> |
+| **Inbox** | New papers since your last visit, with a count badge (idea 3) | <kbd>4</kbd> |
+
+The **⋯** at the end of the switcher opens the menu below. There you choose
+which view **Home opens on** (or "whichever I used last"), and which views
+appear as tabs. Search-first (idea 2) and Review (idea 4) can be switched on
+as tabs too. The same choice is also in Settings.
+
+![The Home view menu: "Home opens on" radio options for Continue reading, Today, Projects, Inbox or whichever was used last, and checkboxes for which views show as tabs](mockups/landing-1c-choose-views.png)
+
+On Today, Projects and Inbox, a **"Pick up where you left off" strip** sits at
+the bottom. It shows a few lines of the page with the stop marker, and
+**Resume** (<kbd>↵</kbd>). Getting back into your paper is therefore one key
+from every view, not just the default one.
+
+Why these three: **Today** and **Projects** are the two ways of deciding
+*what* to read next (by time, or by question). The **Inbox** is the one
+place new material comes in. Search is already in Home's header on every
+view, so it doesn't need a tab of its own. Review works best as a short
+step inside Today rather than a place you'd start from.
+
 ## 1. Pick up where you left off
 
-![Home: a full-width continue-reading card showing the actual page of the paper where you stopped, with a "You stopped here" line, your highlight and note pin; below it papers in progress, recent highlights and the queue](mockups/landing-1-continue.png)
+![Home, Continue reading: most of the screen is the PDF page where you stopped, with the previous lines dimmed, the highlight, a margin note, and a "You stopped here" line, with papers in progress, highlights and up next in a column on the right](mockups/landing-1-continue.png)
 
-The paper you last opened fills the top of Home, and **the page you stopped
-on is shown right there**. It's the real page, in the mode you left it in
-(PDF or Reflow), scrolled so a dashed **"You stopped here"** line sits in
-the middle of the view, with the lines you'd already read dimmed above it.
-Your last highlight is visible in context, with a pin for its note. Reading
-two or three lines is usually enough to remember where you were, before you
-even open the paper.
+The paper you last opened takes up most of Home, and **most of the page you
+stopped on is shown**: the running head, the paragraphs you'd already read
+(dimmed), the section heading, your highlight with its note in the margin, a
+dashed **"You stopped here"** line, then the equation, figure and paragraph
+that come next. It's the real page, in the mode you left it in (PDF or
+Reflow). Seeing half a page is enough to remember where you were before you
+open anything.
 
 - **Resume here** (<kbd>↵</kbd>) or **Open at this line** opens the paper at
   exactly that line.
-- The left of the card shows the progress, the note on your last highlight,
-  what the last session added (18 min, 3 highlights, 1 note), and what's
-  coming next (§4.1, Fig. 2).
-- Below the card are the other papers in progress (flagged when one has
+- Above the page: the title, the progress, the time left, and what the last
+  session added.
+- In a column on the right: the other papers in progress (flagged when one has
   **stalled** for days), recent highlights, and the next unread papers with a
   rough reading time.
 
